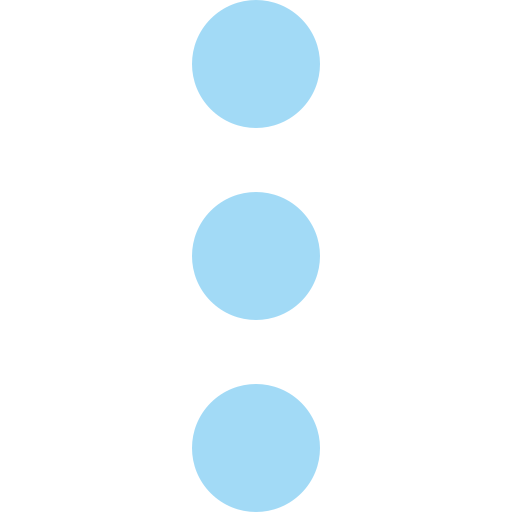
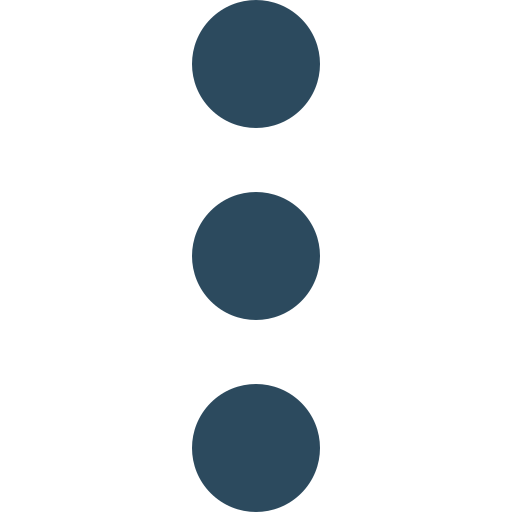
front end v1 terminado

Changed region(s): [[0.375, 0.75, 0.625, 1.0], [0.375, 0.375, 0.625, 0.625], [0.375, 0.0, 0.625, 0.25]]

diff --git a/src/views/SaveContent.jsx b/src/views/SaveContent.jsx
@@ -3,11 +3,14 @@ import Layout from "../components/layout"
 import { useEffect } from "react";
 import { viewSaveContent } from "../services/content.service";
 import { useState } from "react";
+import { getIcon } from "../utils/dictionaries";
+import { useNavigate } from "react-router-dom";
 
 
 const SaveContent = ({ theme }) => {
     const responsive = `bg-red-500 sm:bg-blue-300 md:bg-blue-500 lg:bg-green-500 xl:bg-green-300 2xl:bg-green-100`
     const [saveContent, setSaveContent] = useState([]);
+    const navigate = useNavigate();
 
     const handlerViewContent = async () => {
         try {
@@ -42,6 +45,21 @@ const SaveContent = ({ theme }) => {
     return (
 
         <Layout theme={theme}>
+            <div className="
+                    pl-3 
+                    pt-3
+                "
+            >
+                <button className="
+                            rounded-full 
+                            shadow-lg 
+                            p-2
+                        "
+                    onClick={() => navigate(-1)}
+                >
+                    <img src={getIcon("regresar")} alt="back" className="w-8 h-8" />
+                </button>
+            </div>
             <div className={`
                     gap-x-5            
                     p-5

diff --git a/src/views/StreakPage.jsx b/src/views/StreakPage.jsx
@@ -7,10 +7,22 @@ import { getIcon } from "../utils/dictionaries";
 import { useEffect, useState } from "react";
 import { getClaimData } from "../helpers/storage.service";
 import { saveContent } from "../services/content.service";
+import { useNavigate } from "react-router-dom";
+import { Navigate } from "react-router-dom";
 
 const StreakPage = ({ theme }) => {
     const [saved, setSaved] = useState(false);
     const content = getClaimData();
+    const navigate = useNavigate();
+
+    if (!content) {
+        return (
+            <Navigate
+                to={"/home"}
+                replace
+            />
+        );
+    }
 
     const handleShare = async () => {
         const text = `${content.content.text}\n\n#SleepWell`
@@ -61,6 +73,7 @@ const StreakPage = ({ theme }) => {
         } else {
             setSaved(true);
         }
+
     }, [])
 
     return (

diff --git a/src/components/menu.jsx b/src/components/menu.jsx
@@ -11,12 +11,12 @@ const Menu = ({ icon }) => {
     }
 
     return (
-        <div className="relative bg-white p-2.5 rounded-2xl">
+        <div className="relative bg-white p-2.5 rounded-2xl shadow-lg">
 
             {/* Botón menu */}
             <button
                 onClick={() => setOpen(!open)}
-                className="cursor-pointer"
+                className="cursor-pointer flex justify-center"
             >
                 <img
                     src={icon}
@@ -62,7 +62,7 @@ const Menu = ({ icon }) => {
                             ✨
 
                             <span>
-                                Ver mis frases y tips
+                                See my quotes and tips
                             </span>
 
                         </button>

diff --git a/src/App.jsx b/src/App.jsx
@@ -29,8 +29,8 @@ function App() {
   return (
     <>
       <Routes>
+        <Route path='/' element={<WelcomePage theme={currentTheme} />} />
         <Route path='/home' element={<HomePage theme={currentTheme} />} />
-        <Route path='/welcome' element={<WelcomePage theme={currentTheme} />} />
         <Route path='/streak' element={<StreakPage theme={currentTheme} />} />
         <Route path='/savecontent' element={<SaveContent theme={currentTheme} />} />
       </Routes>

diff --git a/src/views/HomePage.jsx b/src/views/HomePage.jsx
@@ -55,9 +55,9 @@ const HomePage = ({ theme }) => {
             navigate("/streak")
         }
 
-       /* if (!userData) {
-            navigate("/welcome")
-        }*/
+        if (!userData) {
+            navigate("/")
+        }
     }, [])
 
     return (

diff --git a/src/components/button.jsx b/src/components/button.jsx
@@ -14,7 +14,7 @@ const Button = ({
 
     const commonClasses = `
         h-12
-        w-50
+        w-45
         sm:h-10
         sm:w-44
         md:text-xl
